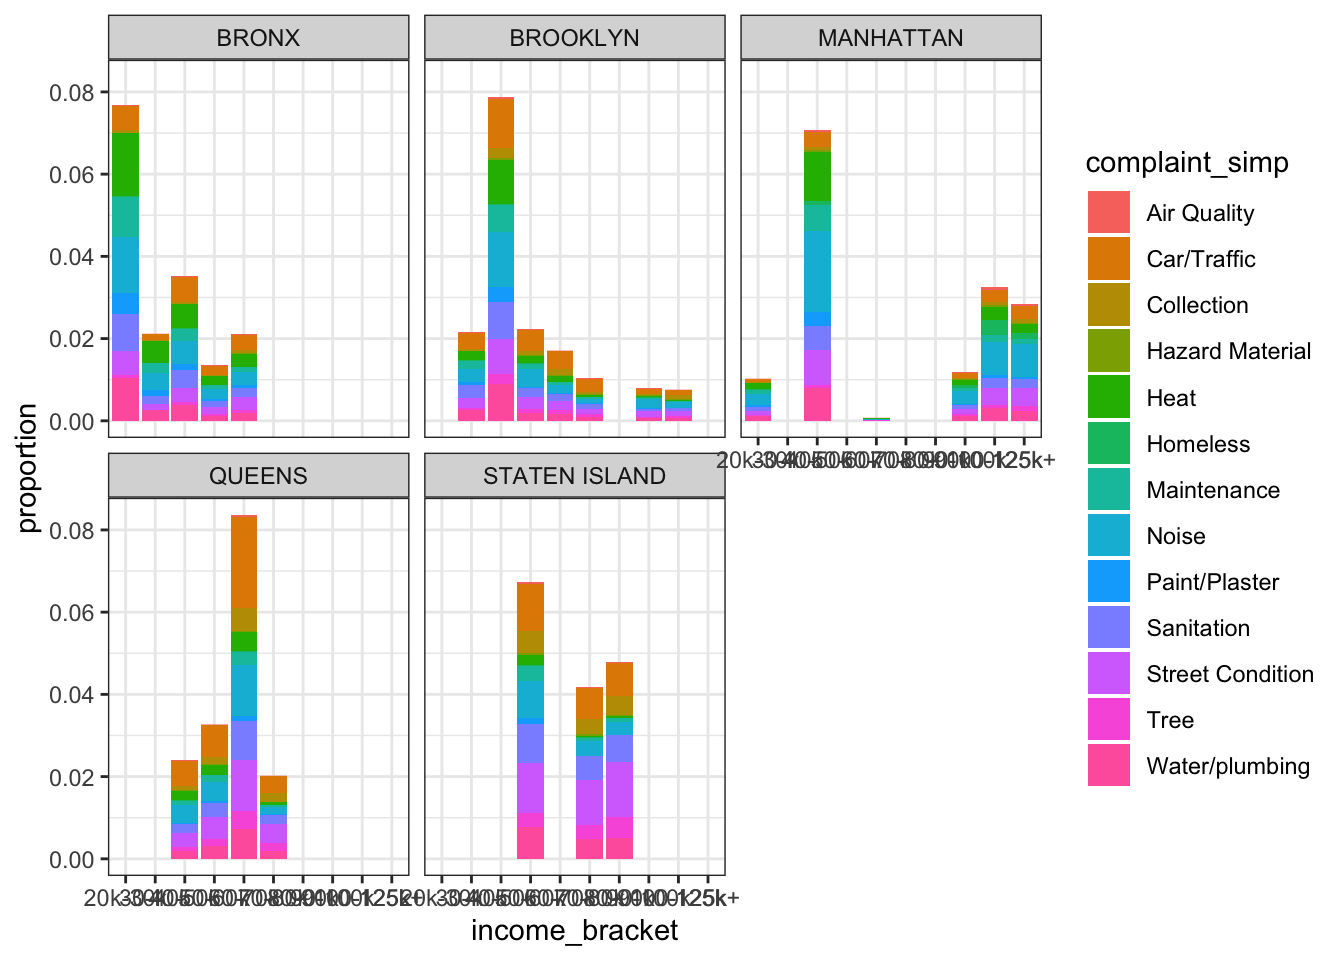
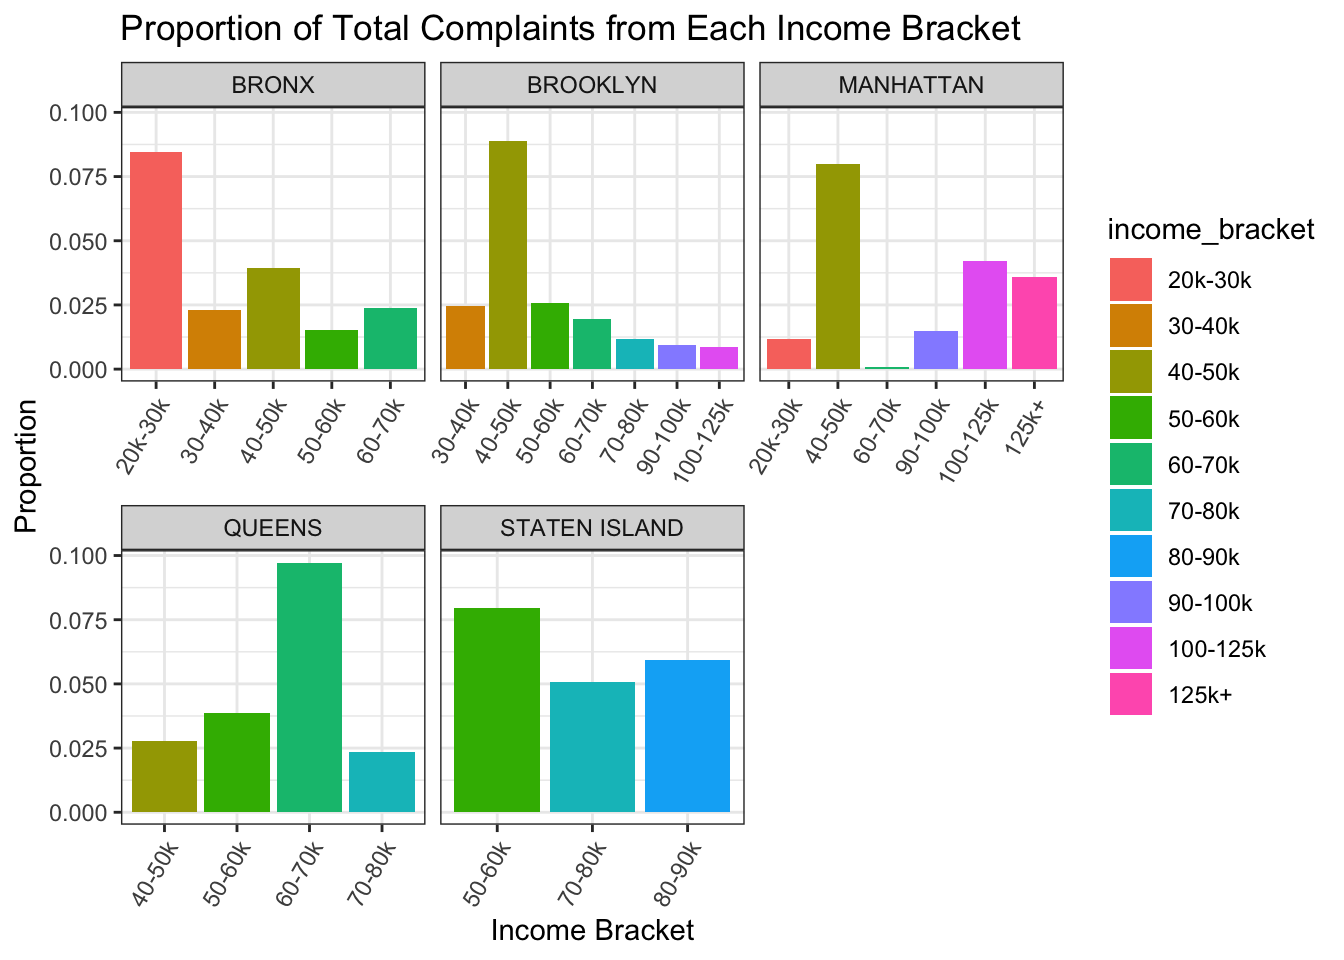
MM - Added boxplot, working on final plots.

diff --git a/descript_stats_plots.html b/descript_stats_plots.html
@@ -504,36 +504,96 @@ $(document).ready(function () {
 </ol>
 </div>
 </div>
-<div id="function-for-calculating-days-until-complaint-resolution" class="section level1">
-<h1>Function for calculating days until complaint resolution</h1>
-<p>NEED THIS???</p>
-</div>
 <div id="plots" class="section level1">
 <h1>Plots</h1>
-<div id="total-number-of-complaints" class="section level2">
-<h2>Total number of complaints</h2>
-<p>Proportion complaints broken down by income bracket and then by income brakcet and borough:</p>
-<pre class="r"><code>nyc_plots %&gt;% 
-    filter(!is.na(income_bracket)) %&gt;% 
-    group_by(income_bracket) %&gt;% 
-    summarize(n = n(),
-              proportion = n/nrow(nyc_plots)) %&gt;% 
-    ggplot(aes(x = income_bracket, y = proportion)) +
-    geom_col() +
-    ylab(&quot;Proportion of Total Complaints&quot;) +
-    ggtitle(&quot;Relative Number of Complaints Filed from Each Income Bracket&quot;)</code></pre>
-<p><img src="descript_stats_plots_files/figure-html/unnamed-chunk-4-1.png" width="672" /></p>
-<pre class="r"><code>nyc_plots %&gt;% 
+<div id="total-number-of-complaints-by-income-bracket" class="section level2">
+<h2>Total number of complaints by income bracket</h2>
+<pre class="r"><code># nyc_plots %&gt;% 
+#     filter(!is.na(income_bracket)) %&gt;% 
+#     group_by(income_bracket) %&gt;% 
+#     summarize(n = n(),
+#               proportion = n/nrow(nyc_plots)) %&gt;% 
+#     ggplot(aes(x = income_bracket, y = proportion)) +
+#     geom_col() +
+#     ylab(&quot;Proportion of Total Complaints&quot;) +
+#     ggtitle(&quot;Relative Number of Complaints Filed from Each Income Bracket&quot;)
+
+nyc_plots %&gt;% 
     filter(!is.na(income_bracket)) %&gt;% 
     group_by(income_bracket, borough) %&gt;% 
     summarize(n = n(),
               proportion = n/nrow(nyc_plots)) %&gt;% 
-    ggplot(aes(x = income_bracket, y = proportion)) +
+    ggplot(aes(x = income_bracket, y = proportion, fill = income_bracket)) +
     geom_col() +
-    ylab(&quot;Proportion of Total Complaints&quot;) +
-    facet_wrap(~borough, scales = &quot;free_x&quot;)</code></pre>
-<p><img src="descript_stats_plots_files/figure-html/unnamed-chunk-4-2.png" width="672" /></p>
+    ylab(&quot;Proportion&quot;) +
+    xlab(&quot;Income Bracket&quot;) +
+    ggtitle(&quot;Proportion of Total Complaints from Each Income Bracket&quot;) +
+    facet_wrap(~borough, scales = &quot;free_x&quot;) +
+    theme(axis.text.x = element_text(angle = 60, hjust = 1))</code></pre>
+<p><img src="descript_stats_plots_files/figure-html/unnamed-chunk-4-1.png" width="672" /></p>
 <p>Middle class income groups proportionally file the most complaints across all income brackets. The only exception is the Bronx, in which the proportion of 311 complaints is higher in the lowest income group.</p>
+</div>
+</div>
+<div id="proportion-of-unsolved-cases-by-income-bracket" class="section level1">
+<h1>Proportion of unsolved cases by income bracket</h1>
+<p>Proportion open:</p>
+<pre class="r"><code>p &lt;- nyc_plots %&gt;% 
+    filter(!is.na(income_bracket)) %&gt;% 
+    group_by(income_bracket, borough, open_complaint) %&gt;% 
+    summarize(n = n()) %&gt;% 
+    pivot_wider(names_from = open_complaint, values_from = n) %&gt;% 
+    rename(closed = &#39;0&#39;,
+           open = &#39;1&#39;)
+
+p %&gt;% mutate(proportion = (open/closed)) %&gt;% 
+    ggplot(aes(x = income_bracket, y = proportion, fill = income_bracket)) +
+    geom_col() +
+    facet_wrap(~borough, scales = &quot;free_x&quot;) +
+    ggtitle(&quot;Proportion of Open Cases Within Each Income Bracket&quot;) +
+    xlab(&quot;Income Bracket&quot;) +
+    ylab(&quot;Proportion Open&quot;) +
+    theme(axis.text.x = element_text(angle = 60, hjust = 1))</code></pre>
+<p><img src="descript_stats_plots_files/figure-html/unnamed-chunk-5-1.png" width="672" /></p>
+</div>
+<div id="total-health-related-complaints-broken-down-by-income-bracket" class="section level1">
+<h1>Total Health related complaints broken down by income bracket</h1>
+<pre class="r"><code>nyc_plots %&gt;% 
+    filter(!is.na(income_bracket)) %&gt;% 
+    group_by(income_bracket, borough, health_complaint) %&gt;% 
+    summarize(n = n(),
+              proportion = n/nrow(nyc_plots)) %&gt;% 
+    ggplot(aes(x = income_bracket, y = proportion, fill = income_bracket)) +
+    geom_col() +
+    ylab(&quot;Proportion&quot;) +
+    xlab(&quot;Income Bracket&quot;) +
+    ggtitle(&quot;Proportion of Total Complaints from Each Income Bracket&quot;) +
+    facet_wrap(~borough, scales = &quot;free_x&quot;) +
+    theme(axis.text.x = element_text(angle = 60, hjust = 1))</code></pre>
+<p><img src="descript_stats_plots_files/figure-html/unnamed-chunk-6-1.png" width="672" /></p>
+</div>
+<div id="proportion-health-related-complaints-open-broken-down-by-income-bracket" class="section level1">
+<h1>Proportion Health related complaints open broken down by income bracket:</h1>
+</div>
+<div id="median-income-of-each-complaint-category" class="section level1">
+<h1>Median income of each complaint category:</h1>
+<pre class="r"><code>nyc_plots %&gt;% 
+    filter(!is.na(median_income),
+           !is.na(complaint_simp)) %&gt;% 
+    mutate(complaint_simp = fct_reorder(complaint_simp, median_income)) %&gt;% 
+    ggplot(aes(x = complaint_simp, 
+               y = (median_income/1000), 
+               fill = complaint_simp)) +
+    geom_boxplot() +
+    theme(axis.text.x = element_text(angle = 60, hjust = 1),
+          legend.position = &quot;none&quot;) +
+    scale_y_continuous(breaks = scales::pretty_breaks(n = 10)) +
+    ylab(&quot;Median Income (thousands)&quot;) +
+    xlab(&quot;Complaint Category&quot;) +
+    ggtitle(&quot;Median Income of Community District where Complaint Category Occurs&quot;)</code></pre>
+<p><img src="descript_stats_plots_files/figure-html/unnamed-chunk-7-1.png" width="672" /></p>
+</div>
+<div id="not-to-be-included" class="section level1">
+<h1>Not to be included:</h1>
 <p>Total complaints within each neighborhood of each borough:</p>
 <pre class="r"><code>nyc_plots %&gt;% 
     filter(!is.na(area_name)) %&gt;% 
@@ -546,41 +606,51 @@ $(document).ready(function () {
     theme(axis.text.x = element_text(angle = 60, hjust = 1)) +
     ggtitle(&quot;Complaints by Neighborhood&quot;) +
     facet_wrap(~borough, scales = &quot;free_x&quot;)</code></pre>
-<p><img src="descript_stats_plots_files/figure-html/unnamed-chunk-5-1.png" width="672" /></p>
-<p>Total number of <code>complaint_simp</code> broken down by each borough and income bracket:</p>
-<p>Should I change this to median number?</p>
+<p><img src="descript_stats_plots_files/figure-html/unnamed-chunk-8-1.png" width="672" /></p>
 <pre class="r"><code>nyc_plots %&gt;% 
-    filter(!is.na(income_bracket),
-           !is.na(complaint_simp)) %&gt;% 
-    group_by(income_bracket, borough, complaint_simp) %&gt;% 
-    summarize(n = n(),
-              proportion = n/nrow(nyc_plots)) %&gt;% 
-    ggplot(aes(x = income_bracket, y = proportion, fill = complaint_simp)) +
-    geom_col() +
-    facet_wrap(~borough)</code></pre>
-<p><img src="descript_stats_plots_files/figure-html/unnamed-chunk-6-1.png" width="672" /></p>
-</div>
-</div>
-<div id="proportion-of-unsolved-cases-by-income-bracket" class="section level1">
-<h1>Proportion of unsolved cases by income bracket</h1>
-<pre class="r"><code>p &lt;- nyc_plots %&gt;% 
-    filter(!is.na(income_bracket)) %&gt;% 
-    group_by(income_bracket, borough, open_complaint) %&gt;% 
+    filter(!is.na(community_board)) %&gt;% 
+    group_by(community_board, borough) %&gt;% 
     summarize(n = n()) %&gt;% 
-    pivot_wider(names_from = open_complaint, values_from = n) %&gt;% 
-    rename(closed = &#39;0&#39;,
-           open = &#39;1&#39;)
-
-p %&gt;% mutate(proportion = (open/closed)) %&gt;% 
-    ggplot(aes(x = income_bracket, y = proportion)) +
+    filter(n &gt; 100) %&gt;% 
+    ggplot(aes(x = community_board, y = n)) +
     geom_col() +
-    facet_wrap(~borough, scales = &quot;free_x&quot;) +
-    ggtitle(&quot;Proportion of Open Cases Within Each Income Bracket&quot;)</code></pre>
-<p><img src="descript_stats_plots_files/figure-html/unnamed-chunk-7-1.png" width="672" /></p>
+    ylab(&quot;Total Complaints&quot;) +
+    xlab(&quot;Community Board&quot;) +
+    theme(axis.text.x = element_text(angle = 60, hjust = 1)) +
+    ggtitle(&quot;Complaints by Community Board&quot;) +
+    facet_wrap(~borough, scales = &quot;free_x&quot;)</code></pre>
+<p><img src="descript_stats_plots_files/figure-html/unnamed-chunk-8-2.png" width="672" /></p>
+<p>other med income plot:</p>
+<pre class="r"><code># 
+# nyc_plots %&gt;% 
+#     filter(!is.na(income_bracket),
+#            !is.na(complaint_simp)) %&gt;% 
+#     group_by(income_bracket, borough, complaint_simp) %&gt;% 
+#     summarize(n = n()) %&gt;% 
+#     mutate(proportion = n/nrow(nyc_plots)) %&gt;% 
+#     arrange(income_bracket, proportion) %&gt;% 
+#     mutate(order = row_number()) %&gt;% 
+#     group_by(complaint_simp) %&gt;% 
+#     ggplot(aes(x = complaint_simp, y = proportion, fill = complaint_simp)) +
+#     geom_col() +
+#     facet_wrap(~income_bracket, scales = &quot;free_x&quot;, ncol = 5) +
+#     theme(axis.text.x = element_text(angle = 75, hjust = 1))
+# 
+
+# 
+#            complaint_simp = fct_reorder(complaint_simp, 
+#                                         proportion, 
+#                                         .desc = TRUE)) %&gt;% </code></pre>
 <ul>
 <li>number unsolved (open) cases versus income bracket - look at health complaints.</li>
 <li>number of unsolved (open) cases within each neighborhood with color representing proportion black, hispanic</li>
 </ul>
+</div>
+<div id="final-plots" class="section level1">
+<h1>Final Plots:</h1>
+<p>Total complaints broken down by neighborhood and borough? –&gt; Plots broken down by community district, incorporate proportions of race/population</p>
+<p>proportion open cases across each income group faceted by borough proportion open health cases across each income group faceted by borough</p>
+<p>density plot of number of days to close by income group - ??</p>
 </div>
 
 
